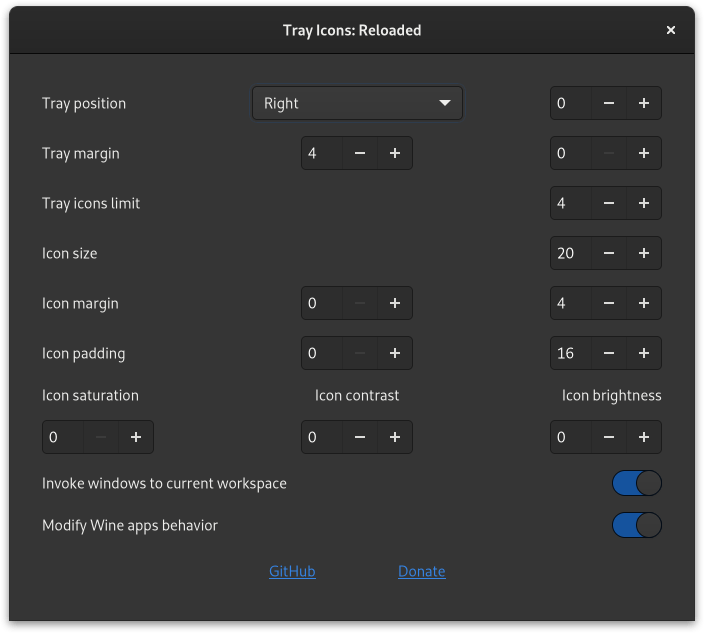
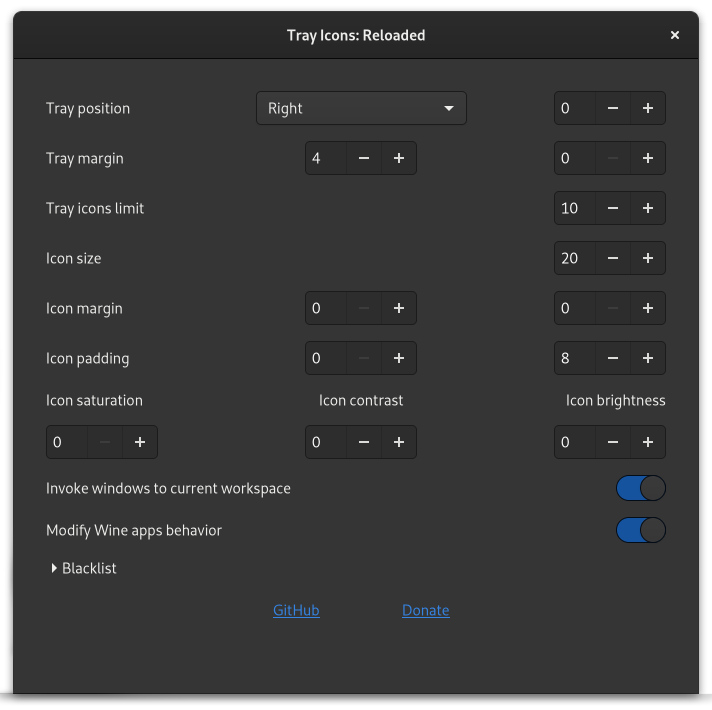
added maual for blacklisting

diff --git a/Manual/BlacklistManual.md b/Manual/BlacklistManual.md
@@ -1,0 +1,28 @@
+# How To blacklist apps
+
+Open "Tray Icons: Reloaded" settings and click on the "Blacklist" foldout. Type in the name of the application. You can enter multiple names by seperating them with a comma. For changes to take affect you need to disable and re enable "Tray Icons: Reloaded". Sometimes the icon name is not the same as the apps name than you need to enter the icon name in the textbox. To find the icons name keep reading otherwise you can stop here.
+
+
+
+### How to find the apps icon title
+
+---
+
+First you need to open "Looking Glass". To open looking glass press Alt+F2 on you keyboard and enter "lg". After pressing enter a window will appear simular to the one shown below.
+
+<img src="../.github/looking-glas1.png">
+
+On the top left corner you will see an eye dropper symbol. Click on it and hover over the icon you want to inspect. A red square will apear around the icon.
+
+<img src="../.github/lookin-glas-tray.png">
+
+Befor you left click on the item make sure the right element is selected. The small pop up you see in the middle of your screen needs to say "ShellTrayIcon" on the end.
+
+<img src="../.github/lookin-glas-inspect.png">
+
+Now click on the icon. The looking glass window will reapear and a new entry will be addad.
+
+<img src="../.github/looking-glas-entry.png">
+
+In the input field on the bottom of the window type: `r(0).title`. Note the number behind "r" could be different. Make sure it is the same as the last entry. Press enter and the icon title will be displayed. 
+

diff --git a/README.md b/README.md
@@ -29,6 +29,7 @@ If you are on Wayland and app don't run through XWayland you can force it via co
 - fast app killing (SHIFT + mouse middle click)
 - window are invoked to current workspace (by default)
 - work with Wine (left and middle click affect all wine apps)
+- blacklist apps to not show up in your tray [How To](Manual/BlacklistManual.md)
 
 ## Installation
 
